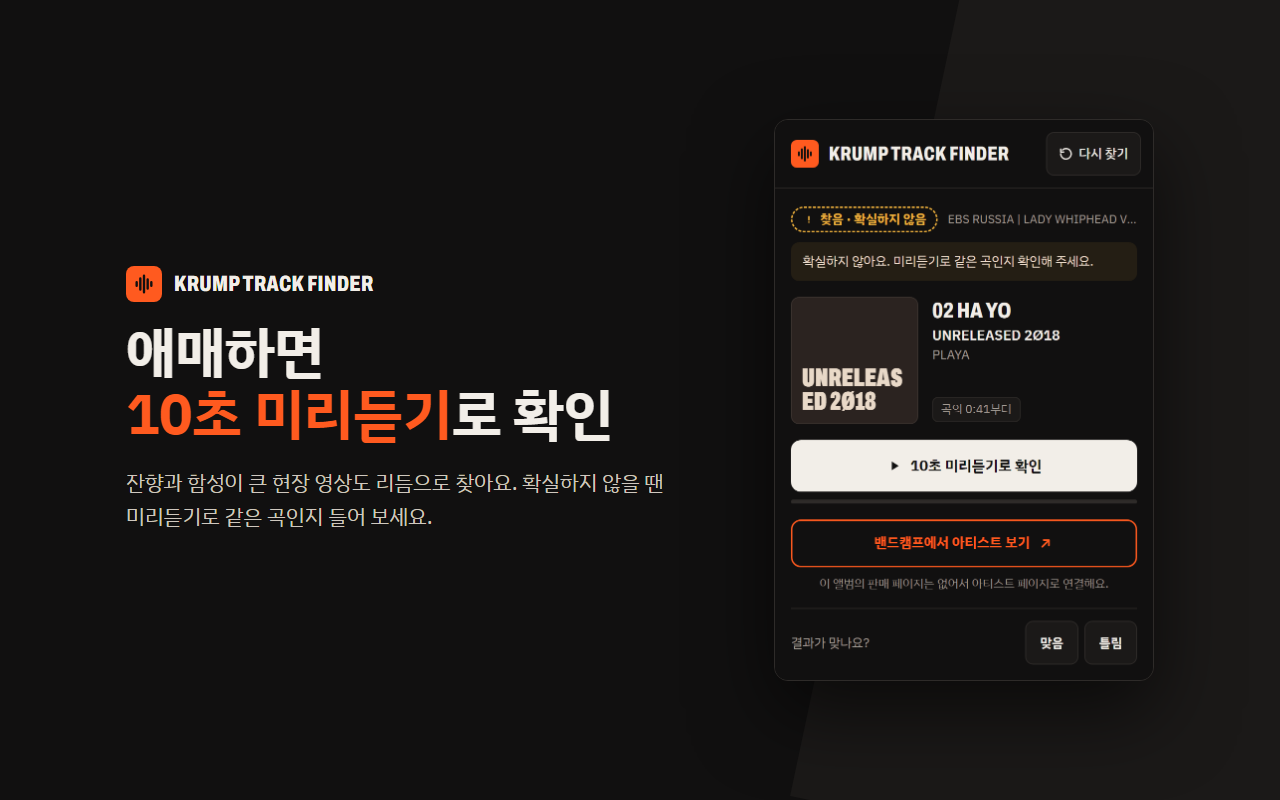
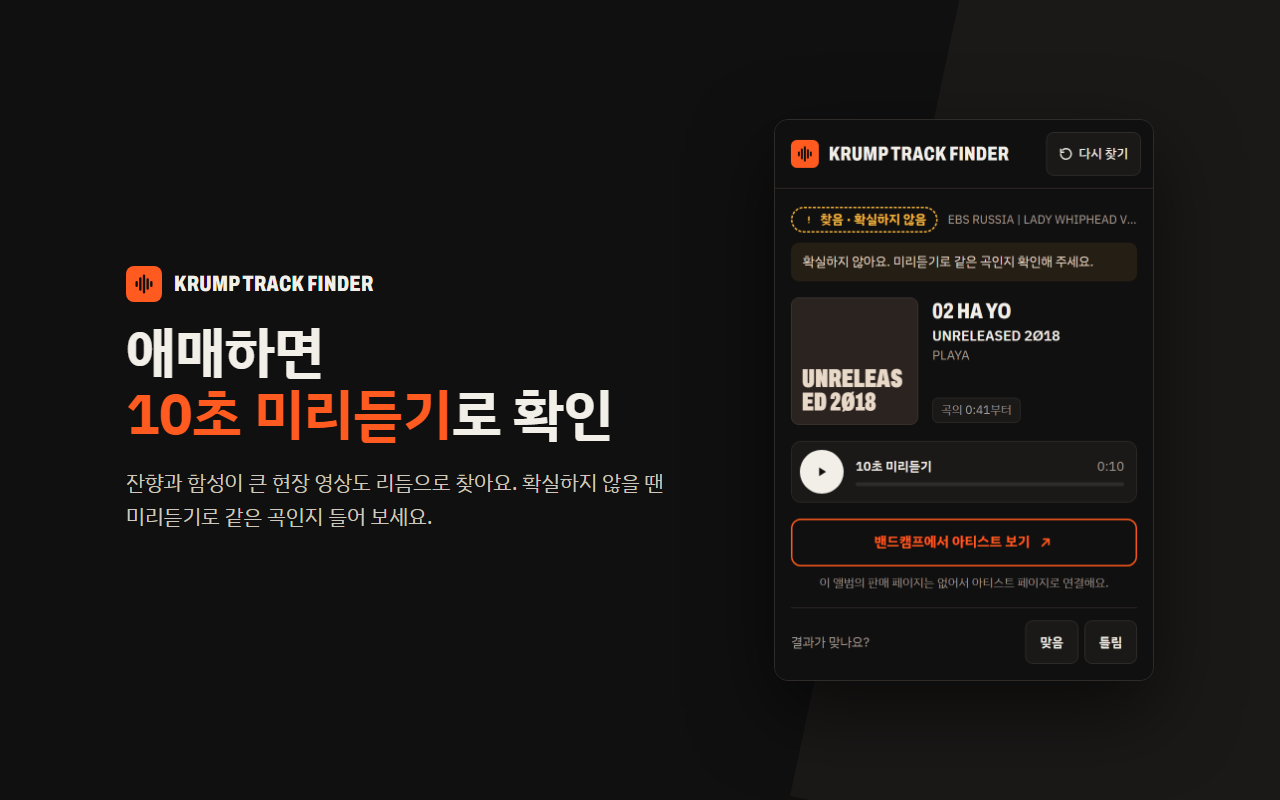
Prepare the 1.1.0 Web Store release
Version 1.1.0: 30 s first, 45 s or 1 min on a retry after 못 찾음, and consent asked again for the
revised privacy policy. Screenshots 2 and 3 are redrawn in the 1.0.0 layout (the unsure find now
has the preview player; the start screen has no length picker and says 최대 30초), and a fifth
shows the 못 찾음 retry with 30초 / 45초 / 1분. The listing says consent is asked again when the
policy changes.

docs/lambda-deployment.md records the deployed final-search times for a 1-minute recording:
6.5 s at most (a song not in the index, through the wide speed range).

diff --git a/store/listing.md b/store/listing.md
@@ -33,6 +33,7 @@
   2. `screenshot-2-unsure.png`
   3. `screenshot-3-listen.png`
   4. `screenshot-4-library.png`
+  5. `screenshot-5-retry.png` (1.1.0부터)
 - 작은 프로모션 타일(440×280): `store/assets/promo-small-440x280.png`
 - 스크린샷의 앨범 커버는 일부러 제목 타일로 바꿨습니다. 다른 아티스트의 앨범 아트를 홍보 이미지에 쓰지 않기 위해서입니다.
 
@@ -62,7 +63,7 @@ Krump Track Finder는 지금 보고 있는 탭의 소리를 듣고 크럼프 음
 
 ■ 알아 두세요
 - 라이브러리에 있는 곡만 찾을 수 있습니다.
-- 처음 쓸 때 개인정보처리방침에 동의해야 합니다. 찾기를 누르면 탭의 소리(최대 1분)와 탭 제목·주소를
+- 처음 쓸 때와 방침이 바뀔 때 개인정보처리방침에 동의해야 합니다. 찾기를 누르면 탭의 소리(최대 1분)와 탭 제목·주소를
   서버로 보내고, 곡 찾기 정확도를 높이기 위해 저장합니다. 이름·계정 같은 정보는 받지 않습니다.
 ```
 
@@ -84,7 +85,7 @@ Krump Track Finder listens to the current tab and finds the same track in a krum
 - Browse and search the whole library.
 
 Only tracks in the library can be found. Using the extension requires agreeing to the privacy
-policy: when you search, the tab's audio (up to 1 minute) and its title and URL are sent to the server
+policy (again when it changes): when you search, the tab's audio (up to 1 minute) and its title and URL are sent to the server
 and stored to improve accuracy. No name, account or other personal details are collected.
 ```
 
@@ -135,6 +136,7 @@ and stored to improve accuracy. No name, account or other personal details are c
 
 1. `extension/manifest.json`의 `version`을 올립니다(이전보다 커야 업로드됩니다).
 2. `python store/package.py` → 대시보드의 패키지 탭에서 새 zip을 올리고 검토를 제출합니다.
+   화면이 바뀌었으면 스토어 등록정보의 스크린샷과 설명도 맞춥니다.
 3. 권한이나 수집 데이터가 바뀌면 4번과 개인정보처리방침도 고칩니다.
 
 ## 비용과 보안 메모

diff --git a/docs/lambda-deployment.md b/docs/lambda-deployment.md
@@ -136,6 +136,7 @@ python server/deploy/aws_setup.py bucket data image function warm
 | 중간 검색, 리듬 포함 (19초 녹음) | 1.3~1.5초 (fingerprint 0.5 + 리듬 0.8) |
 | 최종 검색 (30초, fingerprint 실패 → 리듬) | 약 1.5초 |
 | 최종 검색, 못 찾는 곡 (넓은 속도 범위까지) | 약 4.4초 (넓은 범위 2.9초) |
+| 최종 검색, 1분 녹음 (2026-10-19, feb8b41) | 찾은 경우 1.6~2.8초, 못 찾는 곡 6.5초 (fingerprint 1.6 + pair 0.5 + 리듬 0.8 + 넓은 범위 3.6). 같은 곡 30초는 5.0초 |
 | 10초 미리듣기 | 0.5초 |
 | 2점 해시 단계 (`timings.pair`, 2026-10-18) | 10초 녹음 0.07~0.15초, 30초 녹음 0.2~0.28초 |
 
@@ -163,6 +164,6 @@ python server/deploy/aws_setup.py bucket data image function warm
 | 제한 | 값 | 영향 |
 |---|---|---|
 | 동기 요청 페이로드 | 6MB | 가장 긴 1분 Opus 녹음(160kbps)도 약 1.2MB라 문제없음 |
-| 실행 시간 | 함수 설정 60초 | 요청당 수 초. 1분 녹음의 최종 검색은 로컬에서 최대 6.4초(못 찾는 곡, [검색 파이프라인](search-pipeline.md) §5) |
+| 실행 시간 | 함수 설정 60초 | 요청당 수 초. 1분 녹음의 최종 검색도 Lambda에서 최대 약 6.5초(못 찾는 곡) |
 | `/tmp` | 설정 3GB | 데이터 1.6GB + 녹음 변환 |
 | 인스턴스 네트워크 | 약 80MB/s (측정) | 콜드 스타트 하한을 정함 |
